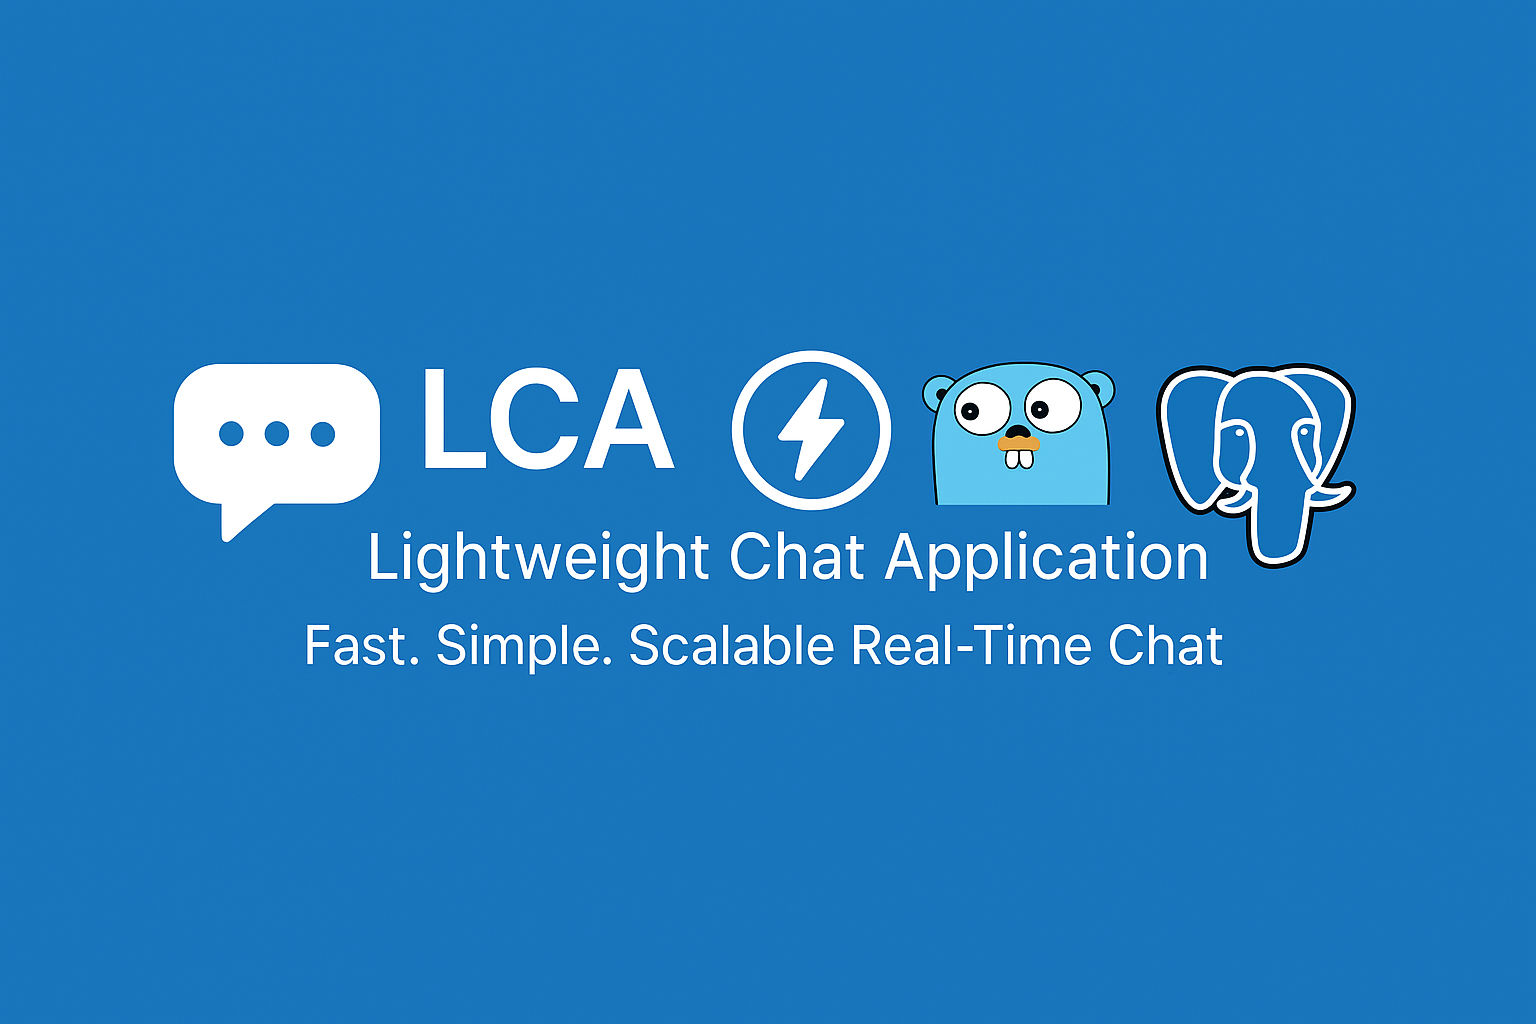
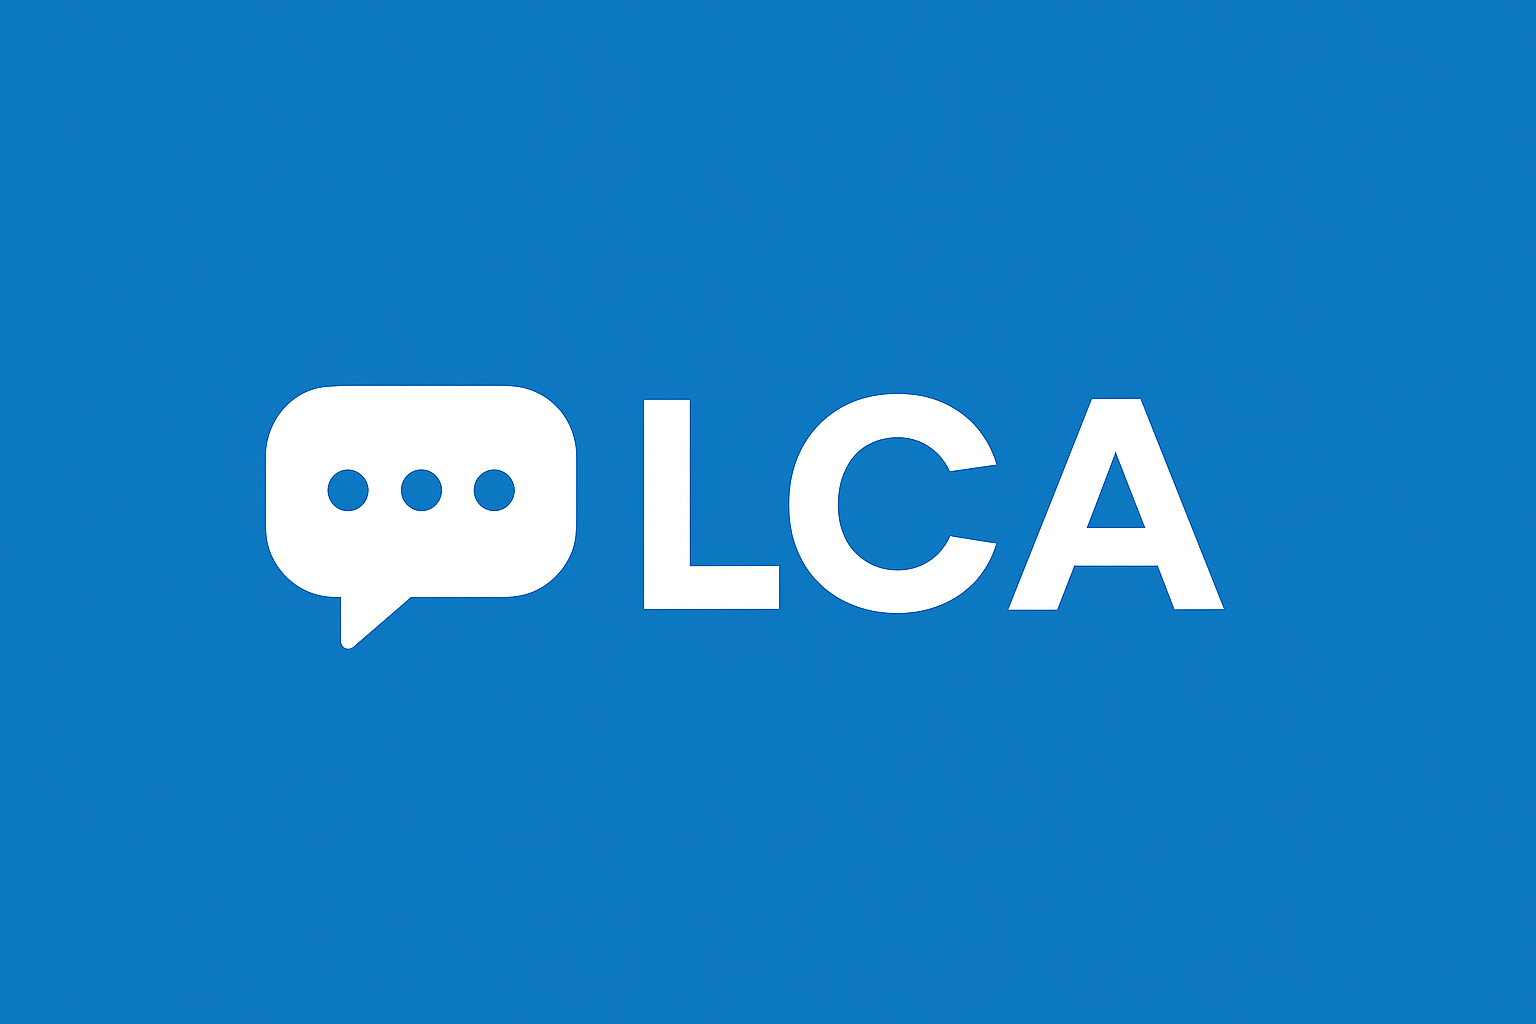
[-]update readme.md

Changed region(s): [[0.0938, 0.3438, 0.9062, 0.6562]]

diff --git a/README.md b/README.md
@@ -26,6 +26,11 @@ and decentralized personal data for resilience and privacy.
   - **Integrity Checking**  — Validates message integrity via CRC/HMAC
 ---
 
+<p align="center">
+  <img src="assets/banner.png" alt="LCA Banner" height="235" width="450" />
+</p>
+
+
 ## 🔧 Prerequisites
 Before you start, make sure you have:
 
